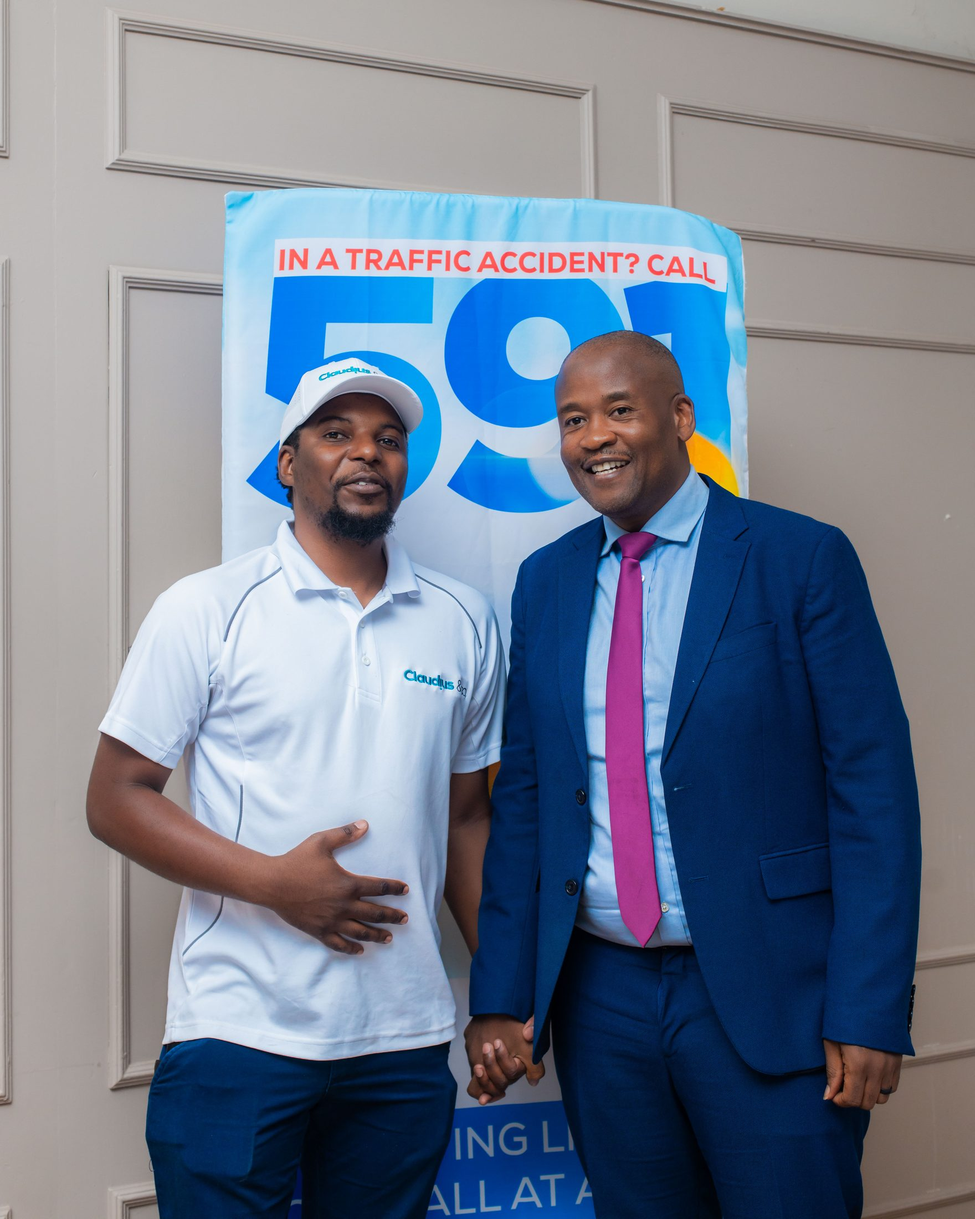
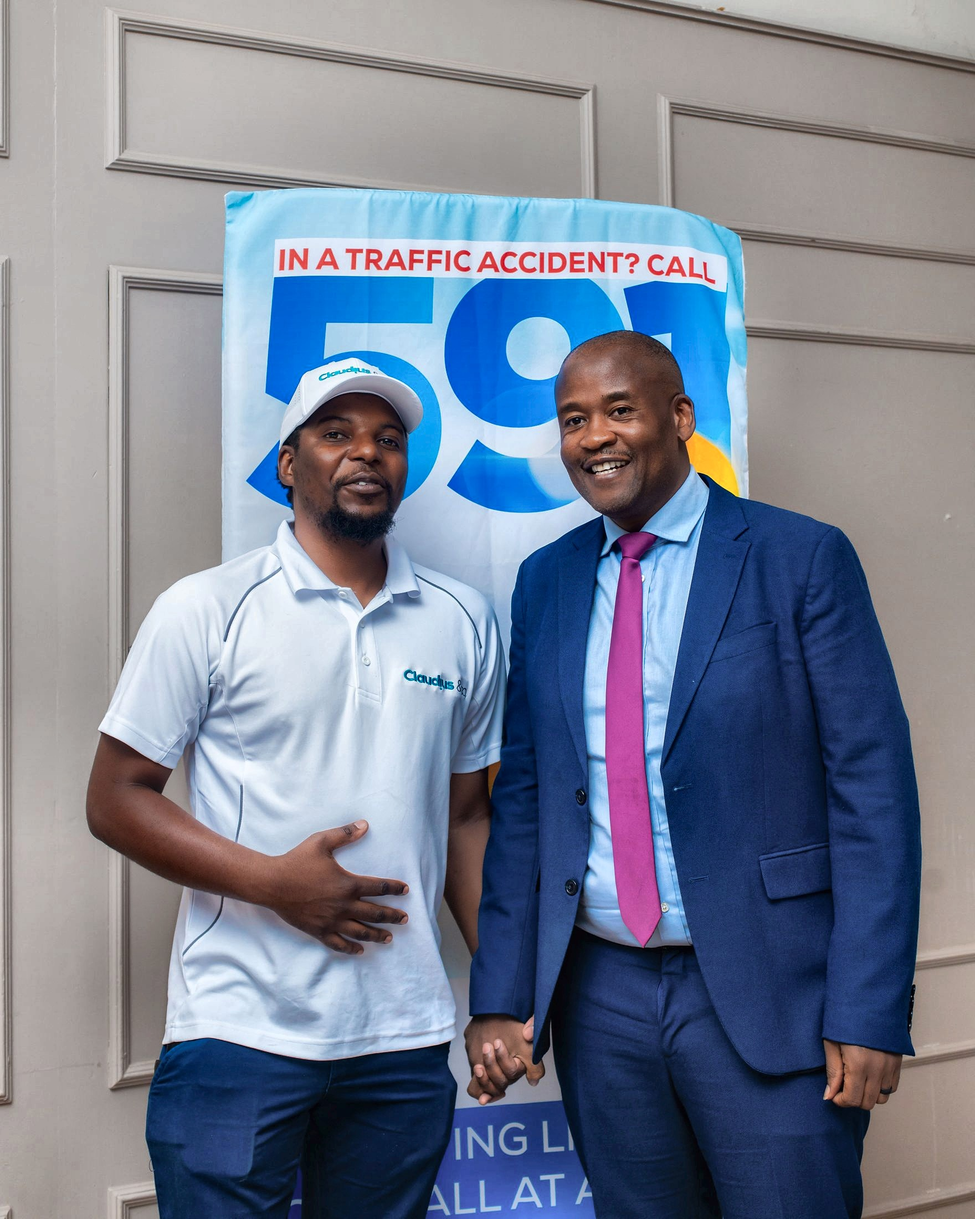
Correct the photography; remove three projects

diff --git a/src/content/media-manifest.ts b/src/content/media-manifest.ts
@@ -11,46 +11,67 @@ export interface ManifestEntry {
 
 export const mediaManifest: ManifestEntry[] = [
   {
+    "url": "/images/clouds (1).jpg",
+    "name": "clouds (1).jpg",
+    "folder": "",
+    "kind": "image",
+    "bytes": 1677077
+  },
+  {
+    "url": "/images/clouds (2).jpg",
+    "name": "clouds (2).jpg",
+    "folder": "",
+    "kind": "image",
+    "bytes": 1765254
+  },
+  {
+    "url": "/images/clouds (3).jpg",
+    "name": "clouds (3).jpg",
+    "folder": "",
+    "kind": "image",
+    "bytes": 1883569
+  },
+  {
     "url": "/images/events/fun-run-aerobics.jpg",
     "name": "fun-run-aerobics.jpg",
     "folder": "events",
     "kind": "image",
-    "bytes": 518874
+    "bytes": 749418
   },
   {
     "url": "/images/events/fun-run-finish.jpg",
     "name": "fun-run-finish.jpg",
     "folder": "events",
     "kind": "image",
-    "bytes": 541200
+    "bytes": 773108
   },
   {
     "url": "/images/events/fun-run-group.jpg",
     "name": "fun-run-group.jpg",
     "folder": "events",
     "kind": "image",
-    "bytes": 654680
+    "bytes": 935660
   },
   {
     "url": "/images/events/reinsurance-forum-delegates.jpg",
     "name": "reinsurance-forum-delegates.jpg",
     "folder": "events",
     "kind": "image",
-    "bytes": 570173
+    "bytes": 847396
   },
   {
     "url": "/images/events/reinsurance-forum-handshake.jpg",
     "name": "reinsurance-forum-handshake.jpg",
     "folder": "events",
     "kind": "image",
-    "bytes": 454821
+    "bytes": 664829
   },
   {
     "url": "/images/huletts/inflatable-pack.jpg",
     "name": "inflatable-pack.jpg",
     "folder": "huletts",
     "kind": "image",
-    "bytes": 250374
+    "bytes": 290046
   },
   {
     "url": "/images/icz-591/591-lockup.png",
@@ -64,7 +85,7 @@ export const mediaManifest: ManifestEntry[] = [
     "name": "ambulance-handover.jpg",
     "folder": "icz-591",
     "kind": "image",
-    "bytes": 479715
+    "bytes": 664891
   },
   {
     "url": "/images/icz-591/campaign-591.jpg",
@@ -85,7 +106,7 @@ export const mediaManifest: ManifestEntry[] = [
     "name": "launch-officials.jpg",
     "folder": "icz-591",
     "kind": "image",
-    "bytes": 375727
+    "bytes": 554771
   },
   {
     "url": "/images/icz-591/quarterly-digest.png",
@@ -99,7 +120,7 @@ export const mediaManifest: ManifestEntry[] = [
     "name": "spokespeople.jpg",
     "folder": "icz-591",
     "kind": "image",
-    "bytes": 321188
+    "bytes": 492039
   },
   {
     "url": "/images/logos/Clere for men logo-21.png",
@@ -197,56 +218,56 @@ export const mediaManifest: ManifestEntry[] = [
     "name": "eilts-amour.jpg",
     "folder": "medtech",
     "kind": "image",
-    "bytes": 198806
+    "bytes": 320777
   },
   {
     "url": "/images/medtech/eilts-enchante-macro.jpg",
     "name": "eilts-enchante-macro.jpg",
     "folder": "medtech",
     "kind": "image",
-    "bytes": 190938
+    "bytes": 296083
   },
   {
     "url": "/images/medtech/eilts-enchante.jpg",
     "name": "eilts-enchante.jpg",
     "folder": "medtech",
     "kind": "image",
-    "bytes": 272128
+    "bytes": 434038
   },
   {
     "url": "/images/medtech/eilts-grandiose.jpg",
     "name": "eilts-grandiose.jpg",
     "folder": "medtech",
     "kind": "image",
-    "bytes": 215469
+    "bytes": 356010
   },
   {
     "url": "/images/medtech/eilts-still-life.jpg",
     "name": "eilts-still-life.jpg",
     "folder": "medtech",
     "kind": "image",
-    "bytes": 189780
+    "bytes": 282078
   },
   {
     "url": "/images/medtech/retail-activation.jpg",
     "name": "retail-activation.jpg",
     "folder": "medtech",
     "kind": "image",
-    "bytes": 637472
+    "bytes": 940130
   },
   {
     "url": "/images/medtech/roadshow-promoters.jpg",
     "name": "roadshow-promoters.jpg",
     "folder": "medtech",
     "kind": "image",
-    "bytes": 677251
+    "bytes": 936590
   },
   {
     "url": "/images/medtech/roadshow-stage.jpg",
     "name": "roadshow-stage.jpg",
     "folder": "medtech",
     "kind": "image",
-    "bytes": 742132
+    "bytes": 1042875
   },
   {
     "url": "/images/medtech/satiskin-berry-fantasy.png",
@@ -288,7 +309,7 @@ export const mediaManifest: ManifestEntry[] = [
     "name": "activation-promoters.jpg",
     "folder": "opal",
     "kind": "image",
-    "bytes": 685522
+    "bytes": 980627
   },
   {
     "url": "/images/opal/logo.png",
@@ -365,6 +386,48 @@ export const mediaManifest: ManifestEntry[] = [
     "name": "sampling-gazebo.jpg",
     "folder": "silkea",
     "kind": "image",
-    "bytes": 572835
+    "bytes": 804056
+  },
+  {
+    "url": "/images/skylake (1).jpeg",
+    "name": "skylake (1).jpeg",
+    "folder": "",
+    "kind": "image",
+    "bytes": 192450
+  },
+  {
+    "url": "/images/skylake (1).jpg",
+    "name": "skylake (1).jpg",
+    "folder": "",
+    "kind": "image",
+    "bytes": 5555635
+  },
+  {
+    "url": "/images/skylake (2).jpeg",
+    "name": "skylake (2).jpeg",
+    "folder": "",
+    "kind": "image",
+    "bytes": 834514
+  },
+  {
+    "url": "/images/skylake (2).jpg",
+    "name": "skylake (2).jpg",
+    "folder": "",
+    "kind": "image",
+    "bytes": 5912352
+  },
+  {
+    "url": "/images/skylake (3).jpeg",
+    "name": "skylake (3).jpeg",
+    "folder": "",
+    "kind": "image",
+    "bytes": 285635
+  },
+  {
+    "url": "/images/skylake (4).jpeg",
+    "name": "skylake (4).jpeg",
+    "folder": "",
+    "kind": "image",
+    "bytes": 376208
   }
 ];

diff --git a/src/content/projects.ts b/src/content/projects.ts
@@ -374,63 +374,6 @@ export const projects: Project[] = [
     blocks: [],
     related: ['medtech'],
   },
-
-  /* ------------------------------------------------- THE CHEESEMAN */
-  {
-    slug: 'the-cheeseman',
-    client: 'THE CHEESEMAN',
-    title: 'A Small Brand With a Big Appetite',
-    year: 2024,
-    featured: false,
-    order: 7,
-    disciplines: ['WEB', 'DIGITAL', 'CONTENT'],
-    services: ['Website Development', 'Social Media Strategy & Management', 'Content Creation'],
-    shortDescription: 'Website, social and content for a specialist food brand.',
-    hero: { alt: 'The Cheeseman', ratio: '4:5', tone: 'default', slot: 'The Cheeseman · content' },
-    challenge: ['A specialist product with a loyal following and no shopfront online.'],
-    idea: ['Make the craft visible.'],
-    whatWeDid: ['Website Development', 'Social Media Management', 'Content Creation'],
-    blocks: [],
-    related: ['clouds-to-you'],
-  },
-
-  /* ------------------------------------------------- CLOUDS TO YOU */
-  {
-    slug: 'clouds-to-you',
-    client: 'CLOUDS TO YOU',
-    title: 'Packaging a Product People Share',
-    year: 2024,
-    featured: false,
-    order: 8,
-    disciplines: ['PACKAGING', 'CONTENT', 'DIGITAL'],
-    services: ['Packaging Design', 'Social Media Strategy & Management', 'Content Creation'],
-    shortDescription: 'Packaging design and social content for a consumer brand built on sharing.',
-    hero: { alt: 'Clouds To You packaging', ratio: '1:1', tone: 'teal', slot: 'Clouds To You · packaging' },
-    challenge: ['A product bought as a gift, packaged as a commodity.'],
-    idea: ['Design the pack for the moment it is handed over.'],
-    whatWeDid: ['Packaging Design', 'Social Media Management', 'Content Creation'],
-    blocks: [],
-    related: ['the-cheeseman'],
-  },
-
-  /* ----------------------------------------------------- TURTLE FIT */
-  {
-    slug: 'turtle-fit',
-    client: 'TURTLE FIT',
-    title: 'Getting a Fitness Brand Online',
-    year: 2024,
-    featured: false,
-    order: 9,
-    disciplines: ['WEB', 'DIGITAL', 'CONTENT'],
-    services: ['Website Development', 'Social Media Strategy & Management', 'Content Creation'],
-    shortDescription: 'Website and social for a fitness brand building an audience.',
-    hero: { alt: 'Turtle Fit', ratio: '16:9', tone: 'ink', slot: 'Turtle Fit · site & social' },
-    challenge: ['An energetic brand with no digital home.'],
-    idea: ['Put the energy where people already scroll.'],
-    whatWeDid: ['Website Development', 'Social Media Strategy', 'Content Creation'],
-    blocks: [],
-    related: ['skylake'],
-  },
 ];
 
 export const featuredSlugs = ['opal', 'silkea', 'icz-591', 'medtech', 'huletts'];

diff --git a/scripts/remove-projects.ts b/scripts/remove-projects.ts
@@ -1,0 +1,61 @@
+/**
+ * Removes projects from the database by slug, and any client rows named
+ * after them.
+ *
+ * Taking a project out of src/content/projects.ts stops it being seeded, but
+ * the live site reads from Postgres — a row already there stays there. This
+ * is the other half of that edit.
+ *
+ *   npm run projects:remove -- the-cheeseman clouds-to-you turtle-fit
+ *
+ * It names what it will delete and refuses an empty argument list, because a
+ * case study is not something to lose to a typo. Anything referencing a
+ * removed slug in its `related` list is cleaned up too, so no case study is
+ * left pointing at a page that no longer exists.
+ */
+import { PrismaClient } from '@prisma/client';
+
+const prisma = new PrismaClient();
+
+async function main() {
+  const slugs = process.argv.slice(2).filter(Boolean);
+  if (slugs.length === 0) {
+    console.error('Nothing to do. Pass one or more slugs:\n  npm run projects:remove -- turtle-fit');
+    process.exit(1);
+  }
+
+  const found = await prisma.project.findMany({ where: { slug: { in: slugs } } });
+  const missing = slugs.filter((s) => !found.some((p) => p.slug === s));
+  for (const s of missing) console.log(`· ${s}: not in the database`);
+
+  for (const project of found) {
+    await prisma.project.delete({ where: { id: project.id } });
+    console.log(`✓ ${project.slug}: removed (${project.client})`);
+
+    const client = await prisma.client.findFirst({ where: { name: project.client } });
+    if (client) {
+      await prisma.client.delete({ where: { id: client.id } });
+      console.log(`  · client "${project.client}" removed from the logo wall`);
+    }
+  }
+
+  // No case study should link to a page that has gone.
+  const rest = await prisma.project.findMany();
+  for (const p of rest) {
+    const cleaned = p.related.filter((r) => !slugs.includes(r));
+    if (cleaned.length !== p.related.length) {
+      await prisma.project.update({ where: { id: p.id }, data: { related: cleaned } });
+      console.log(`  · ${p.slug}: dropped a stale related link`);
+    }
+  }
+
+  console.log(`\n${found.length} project(s) removed. Redeploy for the live site to catch up.`);
+}
+
+main()
+  .then(() => prisma.$disconnect())
+  .catch(async (error) => {
+    console.error(error);
+    await prisma.$disconnect();
+    process.exit(1);
+  });

diff --git a/src/content/site.ts b/src/content/site.ts
@@ -106,8 +106,7 @@ export const capabilities: Capability[] = [
 export const clients = [
   'OPAL', 'MEDTECH GROUP', 'HULETTS', 'SILKÉA', 'INSURANCE COUNCIL OF ZIMBABWE',
   'SANCTUARY INSURANCE', 'AIRDC', 'SKYLAKE BOREHOLE DRILLING', 'INGWEBU',
-  'SHOWER TO SHOWER', 'CLERE', 'SATISKIN', 'CHUIPACK', 'THE CHEESEMAN',
-  'TURTLE FIT', 'CLOUDS TO YOU',
+  'SHOWER TO SHOWER', 'CLERE', 'SATISKIN', 'CHUIPACK',
 ];
 
 export const contactNeeds = [

diff --git a/public/images/README.md b/public/images/README.md
@@ -49,3 +49,20 @@ Campaign films do not belong here. Put them on YouTube or Vimeo: adaptive
 streaming plays properly on a phone on patchy data, self-hosted MP4 does not.
 Short silent loops used as texture are the exception, and should be under a
 few MB.
+
+## Correction
+
+The photography here has had one pass: a black point where the frame had
+headroom, gentle micro-contrast in luminance, and capture sharpening scaled
+down on frames that were already soft. Hues are untouched.
+
+That last part is deliberate. A normal auto-grade starts with white balance,
+which assumes the average of a scene is neutral — and these frames are
+dominated by brand colour by design, so it drags Opal's red toward orange and
+takes skin tones with it. On campaign photography the colour is the asset.
+Correct exposure and detail; leave hue alone.
+
+Packshot renders, logos and designed key visuals are excluded. They are
+approved brand artwork, not captures, and grading them moves a colour someone
+has signed off. A new photograph dropped in here can take the same pass; a new
+render should not.
